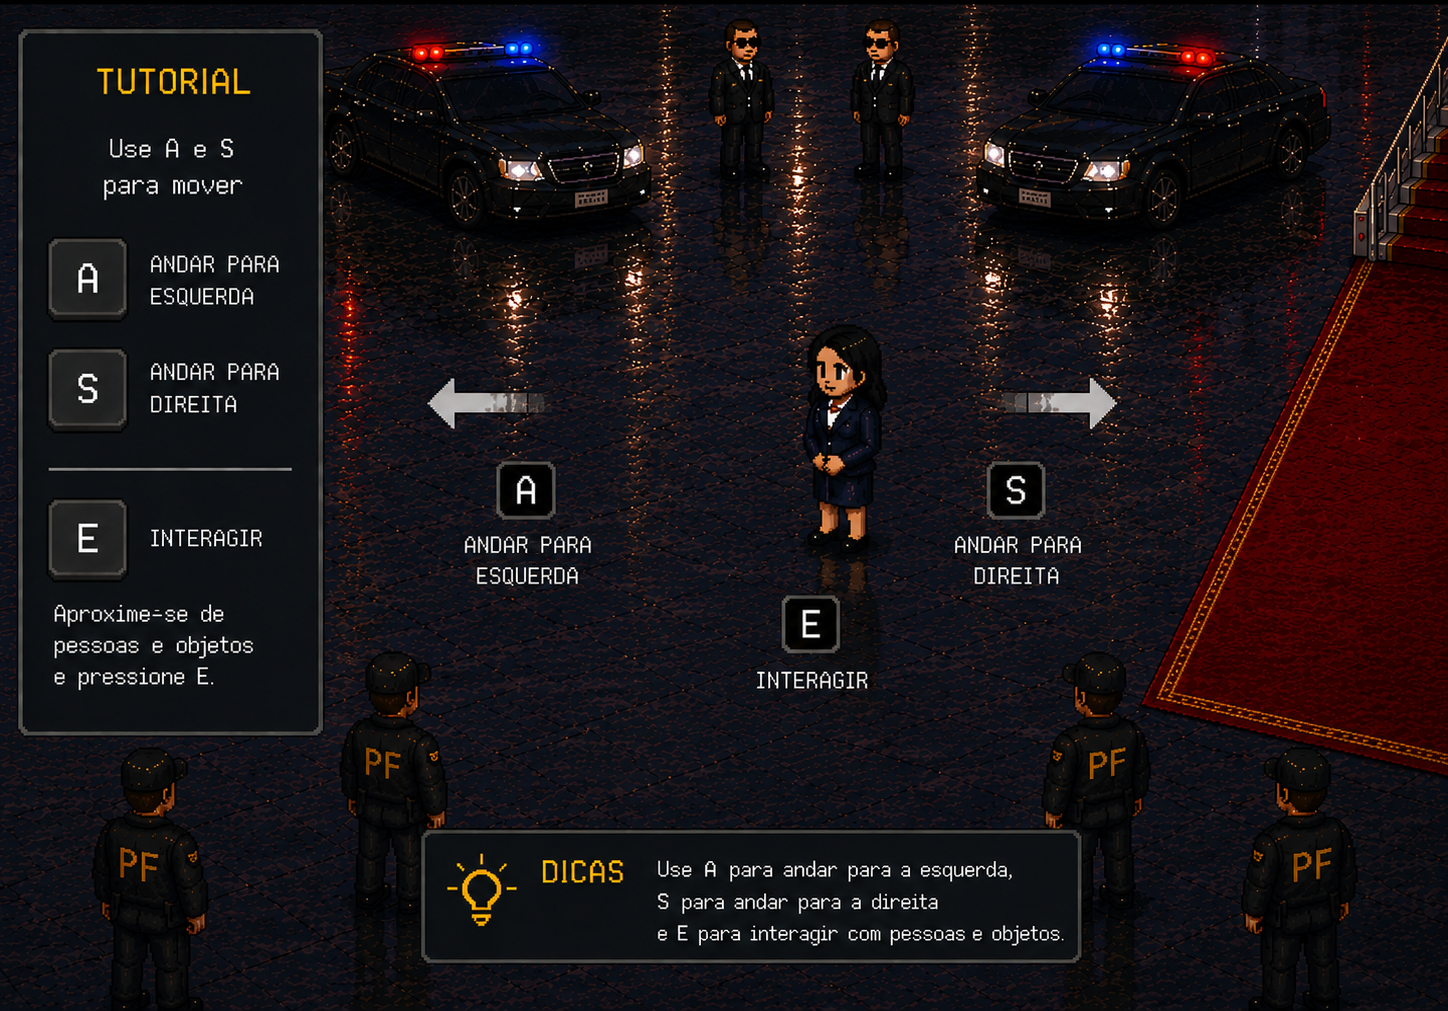
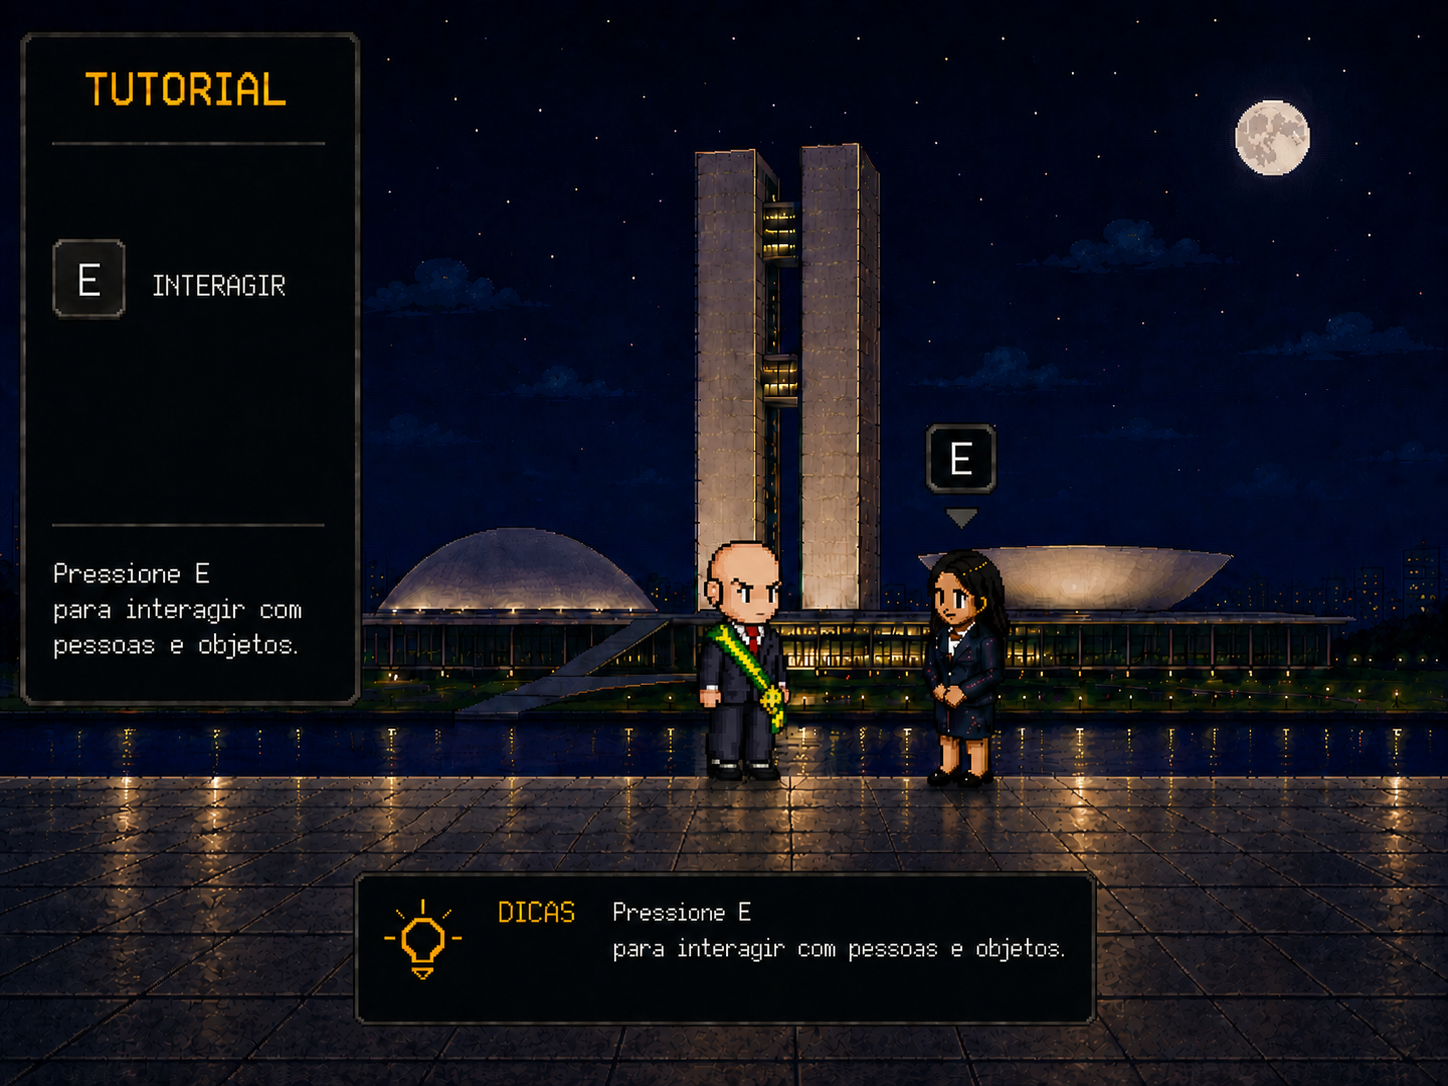
tutorial

diff --git a/fases/tutorial.py b/fases/tutorial.py
@@ -1,0 +1,198 @@
+import pygame
+import sys
+
+pygame.init()
+
+# =========================
+# TELA
+# =========================
+
+LARGURA = 800
+ALTURA = 600
+
+tela = pygame.display.set_mode(
+    (LARGURA, ALTURA)
+)
+
+pygame.display.set_caption(
+    "Tutorial"
+)
+
+clock = pygame.time.Clock()
+
+# =========================
+# CORES
+# =========================
+
+BRANCO = (255,255,255)
+PRETO = (0,0,0)
+AMARELO = (255,210,0)
+
+# =========================
+# FUNÇÃO TEXTO PIXEL
+# =========================
+
+def desenhar_texto_pixel(
+    texto,
+    fonte,
+    cor,
+    contorno,
+    x,
+    y
+):
+
+    base = fonte.render(
+        texto,
+        True,
+        cor
+    )
+
+    sombra = fonte.render(
+        texto,
+        True,
+        contorno
+    )
+
+    for dx in [-2,2]:
+        for dy in [-2,2]:
+
+            tela.blit(
+                sombra,
+                (x+dx,y+dy)
+            )
+
+    tela.blit(
+        base,
+        (x,y)
+    )
+
+# =========================
+# TUTORIAL
+# =========================
+
+def tutorial():
+
+    # =========================
+    # FUNDO
+    # =========================
+
+    fundo = pygame.image.load(
+        "assets/imagens/fundo_tutorial.png"
+    ).convert()
+
+    fundo = pygame.transform.scale(
+        fundo,
+        (LARGURA, ALTURA)
+    )
+
+    # =========================
+    # FONTES
+    # =========================
+
+    fonte = pygame.font.SysFont(
+        "consolas",
+        22,
+        bold=True
+    )
+
+    fonte_dialogo = pygame.font.SysFont(
+        "consolas",
+        18
+    )
+
+    # =========================
+    # DIÁLOGO
+    # =========================
+
+    mostrar_dialogo = False
+
+    # =========================
+    # LOOP
+    # =========================
+
+    while True:
+
+        # =========================
+        # EVENTOS
+        # =========================
+
+        for evento in pygame.event.get():
+
+            if evento.type == pygame.QUIT:
+
+                pygame.quit()
+                sys.exit()
+
+            if evento.type == pygame.KEYDOWN:
+
+                # tecla E
+                if evento.key == pygame.K_e:
+
+                    mostrar_dialogo = True
+
+                # ENTER continua
+                if evento.key == pygame.K_RETURN:
+
+                    return
+
+        # =========================
+        # FUNDO
+        # =========================
+
+        tela.blit(
+            fundo,
+            (0,0)
+        )
+
+        # =========================
+        # DIÁLOGO
+        # =========================
+
+        if mostrar_dialogo:
+
+            pygame.draw.rect(
+                tela,
+                (10,10,10),
+                (180, 520, 440, 50),
+                border_radius=10
+            )
+
+            pygame.draw.rect(
+                tela,
+                AMARELO,
+                (180, 520, 440, 50),
+                2,
+                border_radius=10
+            )
+
+            desenhar_texto_pixel(
+                "Você interagiu com O personagem!",
+                fonte_dialogo,
+                BRANCO,
+                PRETO,
+                220,
+                535
+            )
+
+        # =========================
+        # TEXTO
+        # =========================
+
+        desenhar_texto_pixel(
+            "APERTE ENTER PARA CONTINUAR",
+            fonte_dialogo,
+            BRANCO,
+            PRETO,
+            300,
+            65
+        )
+
+        pygame.display.update()
+
+        clock.tick(60)
+
+# =========================
+# INICIAR
+# =========================
+
+tutorial()